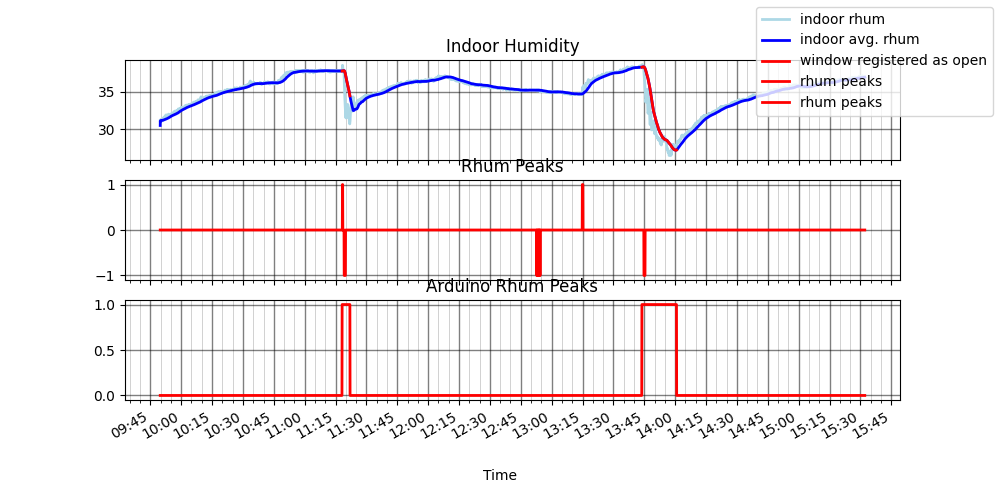
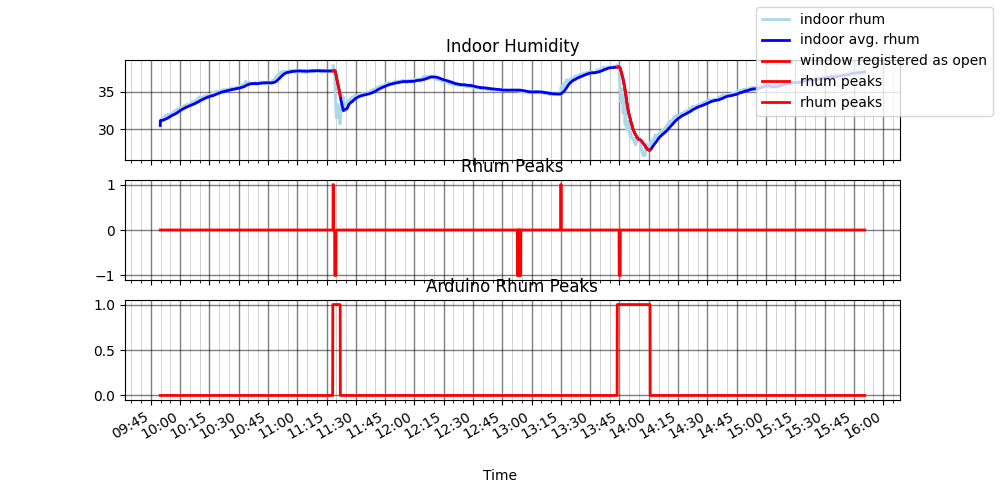
improved AlgoChecker

diff --git a/DataProcessor/signal_processing/AlgoChecker.py b/DataProcessor/signal_processing/AlgoChecker.py
@@ -2,20 +2,29 @@ import numpy as np
 from data_tools import indoorLogReader
 import peak_detection
 
-filename = 'indoor_2021-04-16_09-48-58'
 # delays in seconds
 arduino_delay = 5
 aceptable_delay = 90
 
 
-
 def get_results(filename):
     data = indoorLogReader.read_file(filename)
 
-    return dict(mean_alg=getAcc(data, peak_detection.mean_algo(data["rHum"], 100, 2)),
-                thresholding_algo=getAcc(data, peak_detection.thresholding_algo(np.array(data["rHum"]),50,20,0.2)["signals"]))
+    return dict(mean_alg_rhum=getAcc(data, peak_detection.mean_algo(data["rHum"], 100, 2)),
+                mean_alg_co2=getAcc(data, peak_detection.mean_algo(data["rHum"], 100, 2)),
+                thresholding_algo_rhum=getAcc(data,
+                                              peak_detection.thresholding_algo(np.array(data["rHum"]),
+                                                                               peak_detection.rhum_lag,
+                                                                               peak_detection.rhum_threshold,
+                                                                               peak_detection.rhum_influence)[
+                                                  "signals"]),
+                thresholding_algo_co2=getAcc(data,
+                                             peak_detection.thresholding_algo(np.array(data["CO2"]),
+                                                                              peak_detection.co2_lag,
+                                                                              peak_detection.co2_threshold,
+                                                                              peak_detection.co2_influence)["signals"]))
 
-
+#todo fix fp in thresholding_algo
 def getAcc(data, alg_result):
     tp, fp, tn, fn = 0, 0, 0, 0
 
@@ -23,21 +32,20 @@ def getAcc(data, alg_result):
     correct = False
     # tp and fn teset
     for i in range(len(data["windowState"])):
-        if data["windowState"][i] == 1 and not correct:
-            for j in range(i, i + int(aceptable_delay/arduino_delay)+1):
-                if alg_result[j] != 0:
-                    correct = True
-                    tp += 1
-                    break
-            if not correct: fn += 1
-        elif data["windowState"][i] == 0 and correct:
+        if data["windowState"][i] == 1 and alg_result[i] != 0 and not correct:
+            correct = True
+            tp += 1
+        elif data["windowState"][i - 1] == 1 and data["windowState"][i] == 0 and not correct:
+            fn += 1
+
+        if data["windowState"][i] == 0 and correct:
             correct = False
 
     for i in range(len(alg_result)):
         # fp test
         if alg_result[i] != 0:
             correct = False
-            for j in range(i-arduino_delay*100, i+1):
+            for j in range(i - arduino_delay * 100, i + 1):
                 if j > 0 and data["windowState"][j] == 1:
                     correct = True
                     break
@@ -47,5 +55,4 @@ def getAcc(data, alg_result):
                 fp=fp,
                 tn=tn,
                 fn=fn,
-                acc=(tp+tn)/(tp+tn+fp+fn))
-
+                acc=(tp + tn) / (tp + tn + fp + fn))

diff --git a/DataProcessor/signal_processing/peak_detection.py b/DataProcessor/signal_processing/peak_detection.py
@@ -11,7 +11,7 @@ rhum_lag = 50
 rhum_threshold = 5
 rhum_influence = 0.5
 # co2 settings
-co2_lag = 30
+co2_lag = 50
 co2_threshold = 6
 co2_influence = 0.3
 
